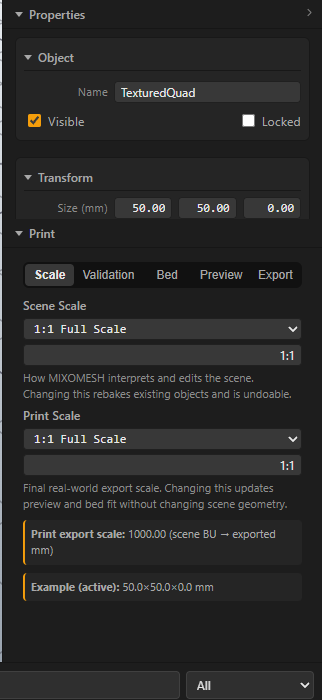
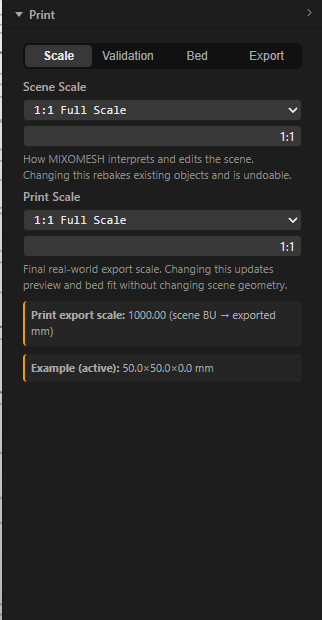
feat(ui): task-filtered Properties per workspace + two layout bug fixes
Properties is now task-filtered (user direction: a workspace should only
show what its task needs):
- Layout: Object / Transform / Source Unit / Print Part (shader + UV
  sections hidden — no material noise while arranging)
- Shading (label renamed from "Shade"; id stays `shade`): Object /
  Shader / UV Override (transform/unit/print-part hidden)
- Scene + Print: Properties panel hidden entirely (scene-wide and
  pipeline work respectively; per-object Print Part toggle lives in
  Layout, selective export via Print > Export "selected only")
Filtering is pure CSS (body[data-workspace] + .pp-section[data-section]).

Two real bugs this exposed, found via DOM probes in the screenshot
harness (PROBE=1 now dumps per-workspace section geometry):
- ShaderPanel auto-synced its editor through focus() on every
  ACTIVE_OBJECT_CHANGED — with the new focus() workspace jump, selecting
  any shadered object hijacked the user into Shading. The subscription
  now syncs the editor passively; only explicit focus() switches.
- AppShell pinned #rp-properties with an inline flex at init, freezing a
  transient boot layout (~80px Properties everywhere once sections went
  per-workspace). Init now sets splitter aria only; the pin happens on
  first real drag/keypress, and CSS force-restores flex outside Shading.

diff --git a/src/styles/layout.css b/src/styles/layout.css
@@ -279,13 +279,30 @@ body[data-workspace="shade"]  #rp-print,
 body[data-workspace="shade"]  #rp-scene   { display: none; }
 body[data-workspace="scene"]  #rp-print,
 body[data-workspace="scene"]  #rp-shaders,
+body[data-workspace="scene"]  #rp-properties,
 body[data-workspace="scene"]  .rp-splitter { display: none; }
 body[data-workspace="print"]  #rp-shaders,
 body[data-workspace="print"]  #rp-scene,
+body[data-workspace="print"]  #rp-properties,
 body[data-workspace="print"]  .rp-splitter { display: none; }
+
+/* Properties sections are task-filtered per workspace (no shader noise while
+   arranging; no transform noise while shading). Scene/Print hide the whole
+   Properties panel above, so only Layout and Shade filter. */
+body[data-workspace="layout"] .pp-section[data-section="shader"],
+body[data-workspace="layout"] .pp-section[data-section="uv-override"] { display: none; }
+body[data-workspace="shade"]  .pp-section[data-section="transform"],
+body[data-workspace="shade"]  .pp-section[data-section="source-unit"],
+body[data-workspace="shade"]  .pp-section[data-section="print-part"] { display: none; }
 
 /* Scene panel: settings, not a workspace focus — compact, never greedy. */
 #rp-scene { flex: 0 1 auto; }
+
+/* The Properties/Shader splitter pins #rp-properties with an inline
+   `flex: 0 0 <px>` (AppShell). That pin only makes sense in Shade — the one
+   workspace where two sections share the column. Everywhere else Properties
+   is alone and must fill the panel; !important beats the inline style. */
+body:not([data-workspace="shade"]) #rp-properties { flex: 1 1 0 !important; }
 
 #asset-panel.ap-outer-collapsed .ap-tree,
 #asset-panel.ap-outer-collapsed .ap-grid { display: none; }

diff --git a/src/ui/AppShell.js b/src/ui/AppShell.js
@@ -101,7 +101,16 @@ function _wireRightPanelSections() {
     }
     e.preventDefault();
   });
-  setTopHeight(metrics().current);
+  // Init aria ONLY — no flex pin. AppShell runs before Workspace applies the
+  // per-workspace section CSS, so pinning here freezes a transient boot
+  // layout (Properties ended up ~80px tall everywhere). The pin happens on
+  // the first actual drag / keyboard resize.
+  {
+    const { current, maxTop } = metrics();
+    splitter.setAttribute('aria-valuemin', String(MIN_SECTION_PX));
+    splitter.setAttribute('aria-valuemax', String(Math.round(maxTop)));
+    splitter.setAttribute('aria-valuenow', String(Math.round(current)));
+  }
 }
 
 function _wireOuterPanels() {

diff --git a/src/ui/Workspace.js b/src/ui/Workspace.js
@@ -31,7 +31,7 @@ export const WORKSPACES = ['layout', 'shade', 'scene', 'print'];
  */
 export const WORKSPACE_DEFAULTS = {
   layout: { right: true, bottom: true,  outlinerWidth: 260, rightWidth: 300, assetHeight: 220, label: 'Layout' },
-  shade:  { right: true, bottom: false, outlinerWidth: 220, rightWidth: 340, assetHeight: 220, label: 'Shade' },
+  shade:  { right: true, bottom: false, outlinerWidth: 220, rightWidth: 340, assetHeight: 220, label: 'Shading' },
   scene:  { right: true, bottom: false, outlinerWidth: 220, rightWidth: 320, assetHeight: 220, label: 'Scene' },
   print:  { right: true, bottom: false, outlinerWidth: 220, rightWidth: 320, assetHeight: 220, label: 'Print' },
 };

diff --git a/src/ui/ShaderPanel.js b/src/ui/ShaderPanel.js
@@ -67,7 +67,12 @@ function _onActiveObjectChanged({ activeId }) {
   const obj = getState().scene.objects[activeId];
   if (!obj?.shaderId) return;
   if (obj.shaderId === _editingId) return;
-  focus(obj.shaderId);
+  // Passive editor sync only — must NOT switch workspaces (focus() does);
+  // selecting an object while arranging would otherwise hijack the user
+  // into Shade on every click.
+  _editingId = obj.shaderId;
+  document.getElementById('rp-shaders')?.classList.remove('collapsed');
+  _render();
 }
 
 /** True when an editable element inside the Library currently has focus. */

diff --git a/Blueprint.md b/Blueprint.md
@@ -2422,10 +2422,14 @@ This is **not** a full dockable/floating-panel system (Blender's `Area`/`Region`
 
 | Workspace | Outliner | Properties | Scene Panel | Shader Library | Asset Panel | Print Panel |
 |---|---|---|---|---|---|---|
-| **Layout** (default — import & arrange) | visible 260px | visible | hidden | hidden | visible at default 220px (drop target focus) | hidden |
-| **Shade** (texture / shader / UV) | visible 220px (narrow) | visible | hidden | **visible, expanded — primary edit surface** | hidden | hidden |
-| **Scene** (grid / render / camera setup) | visible 220px (narrow) | visible | **visible** | hidden | hidden | hidden |
-| **Print** (validate + export) | visible 220px (narrow) | visible | hidden | hidden | hidden | **visible at full height** (Scale / Validation / Bed / Export) |
+| **Layout** (default — import & arrange) | visible 260px | visible, task-filtered: Object / Transform / Source Unit / Print Part (Shader + UV hidden) | hidden | hidden | visible at default 220px (drop target focus) | hidden |
+| **Shading** (id `shade` — texture / shader / UV) | visible 220px (narrow) | visible, task-filtered: Object / Shader / UV Override (Transform + Source Unit + Print Part hidden) | hidden | **visible, expanded — primary edit surface** | hidden | hidden |
+| **Scene** (grid / render / camera setup) | visible 220px (narrow) | **hidden** (scene-wide, not object work) | **visible** | hidden | hidden | hidden |
+| **Print** (validate + export) | visible 220px (narrow) | **hidden** (per-object Print Part toggle lives in Layout; selective export via Print ▸ Export "selected only") | hidden | hidden | hidden | **visible at full height** (Scale / Validation / Bed / Export) |
+
+Properties section filtering is pure CSS (`body[data-workspace]` +
+`.pp-section[data-section]`, layout.css) — the panel renders everything,
+the workspace decides what shows.
 
 Outliner is **pinned** in every workspace — you always need the scene list to know what you're working on. The user can still hide it via `panelCollapsed.left` (manual override), but it isn't a workspace default.
 
